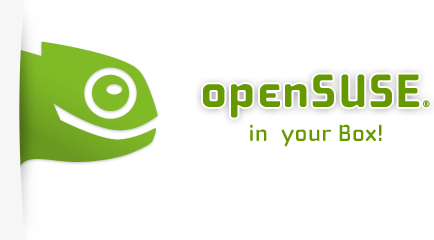
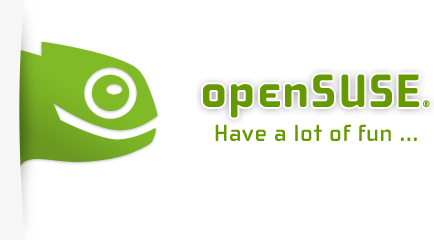
changed image (slagan) and added js for language detection

Changed region(s): [[0.4793, 0.4958, 0.9585, 0.6125]]

diff --git a/js_local/script.js b/js_local/script.js
@@ -16,4 +16,8 @@ $(document).ready(function() {
     return false;
   });
   
+  // Detect Browser Language
+  console.log(window.navigator.language);
+  
+  
 });
